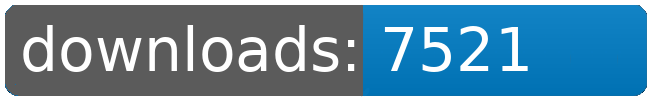
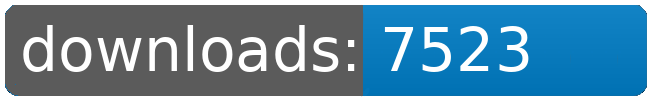
dl log written

Changed region(s): [[0.7692, 0.24, 0.8308, 0.72]]

diff --git a/README.md b/README.md
@@ -4,113 +4,113 @@
 <table>
 	<tr>
 		<td></td>
-		<td>2026-07-19</td>
 		<td>2026-07-20</td>
 		<td>2026-07-21</td>
 		<td>2026-07-22</td>
 		<td>2026-07-23</td>
 		<td>2026-07-24</td>
 		<td>2026-07-25</td>
+		<td>2026-07-26</td>
 		<td>today +</td>
 	</tr>
 	<tr>
 		<td>Bunsen.Burner</td>
-		<td>7654</td>
 		<td>7667</td>
 		<td>7681</td>
 		<td>7695</td>
 		<td>7709</td>
 		<td>7723</td>
 		<td>7738</td>
-		<td>+ 15</td>
+		<td>7738</td>
+		<td></td>
 	</tr>
 	<tr>
 		<td>Factory.Outlets</td>
-		<td>6735</td>
 		<td>6748</td>
 		<td>6763</td>
 		<td>6777</td>
 		<td>6794</td>
 		<td>6809</td>
 		<td>6824</td>
-		<td>+ 15</td>
+		<td>6824</td>
+		<td></td>
 	</tr>
 	<tr>
 		<td>Fundamental.Outfit.Expansion</td>
-		<td>8033</td>
 		<td>8047</td>
 		<td>8063</td>
 		<td>8076</td>
 		<td>8094</td>
 		<td>8110</td>
 		<td>8128</td>
-		<td>+ 18</td>
+		<td>8128</td>
+		<td></td>
 	</tr>
 	<tr>
 		<td>Jaws</td>
-		<td>6569</td>
 		<td>6583</td>
 		<td>6597</td>
 		<td>6613</td>
 		<td>6627</td>
 		<td>6641</td>
 		<td>6656</td>
-		<td>+ 15</td>
+		<td>6656</td>
+		<td></td>
 	</tr>
 	<tr>
 		<td>Korunak.Defense.Drones</td>
-		<td>6791</td>
 		<td>6804</td>
 		<td>6818</td>
 		<td>6833</td>
 		<td>6847</td>
 		<td>6861</td>
 		<td>6876</td>
-		<td>+ 15</td>
+		<td>6876</td>
+		<td></td>
 	</tr>
 	<tr>
 		<td>Louise.Conglomerate.Shipyards</td>
-		<td>7430</td>
 		<td>7446</td>
 		<td>7460</td>
 		<td>7474</td>
 		<td>7490</td>
 		<td>7506</td>
 		<td>7521</td>
-		<td>+ 15</td>
+		<td>7523</td>
+		<td>+ 2</td>
 	</tr>
 	<tr>
 		<td>Sheragi.Rebirth.Redux</td>
-		<td>61</td>
 		<td>62</td>
 		<td>63</td>
 		<td>63</td>
 		<td>64</td>
 		<td>65</td>
 		<td>65</td>
+		<td>65</td>
 		<td></td>
 	</tr>
 	<tr>
 		<td>Solar.Sails</td>
-		<td>6696</td>
 		<td>6709</td>
 		<td>6724</td>
 		<td>6738</td>
 		<td>6752</td>
 		<td>6766</td>
 		<td>6781</td>
-		<td>+ 15</td>
+		<td>6781</td>
+		<td></td>
 	</tr>
 	<tr>
 		<td>Zone.of.Control</td>
-		<td>6517</td>
 		<td>6531</td>
 		<td>6545</td>
 		<td>6559</td>
 		<td>6573</td>
 		<td>6586</td>
 		<td>6601</td>
-		<td>+ 15</td>
+		<td>6601</td>
+		<td></td>
 	</tr>
 	<tr>
 		<td></td>
@@ -120,8 +120,8 @@
 		<td></td>
 		<td></td>
 		<td></td>
-		<td>57190</td>
-		<td>123</td>
+		<td>57192</td>
+		<td>2</td>
 	</tr>
 </table>
 </sub></sup>
@@ -129,112 +129,112 @@
 <table>
 	<tr>
 		<td></td>
-		<td>2026-07-19</td>
 		<td>2026-07-20</td>
 		<td>2026-07-21</td>
 		<td>2026-07-22</td>
 		<td>2026-07-23</td>
 		<td>2026-07-24</td>
 		<td>2026-07-25</td>
+		<td>2026-07-26</td>
 		<td>today +</td>
 	</tr>
 	<tr>
 		<td>Fundamental.Outfit.Expansion</td>
-		<td>8033</td>
 		<td>8047</td>
 		<td>8063</td>
 		<td>8076</td>
 		<td>8094</td>
 		<td>8110</td>
 		<td>8128</td>
-		<td>+ 18</td>
+		<td>8128</td>
+		<td></td>
 	</tr>
 	<tr>
 		<td>Bunsen.Burner</td>
-		<td>7654</td>
 		<td>7667</td>
 		<td>7681</td>
 		<td>7695</td>
 		<td>7709</td>
 		<td>7723</td>
 		<td>7738</td>
-		<td>+ 15</td>
+		<td>7738</td>
+		<td></td>
 	</tr>
 	<tr>
 		<td>Louise.Conglomerate.Shipyards</td>
-		<td>7430</td>
 		<td>7446</td>
 		<td>7460</td>
 		<td>7474</td>
 		<td>7490</td>
 		<td>7506</td>
 		<td>7521</td>
-		<td>+ 15</td>
+		<td>7523</td>
+		<td>+ 2</td>
 	</tr>
 	<tr>
 		<td>Korunak.Defense.Drones</td>
-		<td>6791</td>
 		<td>6804</td>
 		<td>6818</td>
 		<td>6833</td>
 		<td>6847</td>
 		<td>6861</td>
 		<td>6876</td>
-		<td>+ 15</td>
+		<td>6876</td>
+		<td></td>
 	</tr>
 	<tr>
 		<td>Factory.Outlets</td>
-		<td>6735</td>
 		<td>6748</td>
 		<td>6763</td>
 		<td>6777</td>
 		<td>6794</td>
 		<td>6809</td>
 		<td>6824</td>
-		<td>+ 15</td>
+		<td>6824</td>
+		<td></td>
 	</tr>
 	<tr>
 		<td>Solar.Sails</td>
-		<td>6696</td>
 		<td>6709</td>
 		<td>6724</td>
 		<td>6738</td>
 		<td>6752</td>
 		<td>6766</td>
 		<td>6781</td>
-		<td>+ 15</td>
+		<td>6781</td>
+		<td></td>
 	</tr>
 	<tr>
 		<td>Jaws</td>
-		<td>6569</td>
 		<td>6583</td>
 		<td>6597</td>
 		<td>6613</td>
 		<td>6627</td>
 		<td>6641</td>
 		<td>6656</td>
-		<td>+ 15</td>
+		<td>6656</td>
+		<td></td>
 	</tr>
 	<tr>
 		<td>Zone.of.Control</td>
-		<td>6517</td>
 		<td>6531</td>
 		<td>6545</td>
 		<td>6559</td>
 		<td>6573</td>
 		<td>6586</td>
 		<td>6601</td>
-		<td>+ 15</td>
+		<td>6601</td>
+		<td></td>
 	</tr>
 	<tr>
 		<td>Sheragi.Rebirth.Redux</td>
-		<td>61</td>
 		<td>62</td>
 		<td>63</td>
 		<td>63</td>
 		<td>64</td>
 		<td>65</td>
 		<td>65</td>
+		<td>65</td>
 		<td></td>
 	</tr>
 	<tr>
@@ -245,8 +245,8 @@
 		<td></td>
 		<td></td>
 		<td></td>
-		<td>57190</td>
-		<td>123</td>
+		<td>57192</td>
+		<td>2</td>
 	</tr>
 </table>
 </sub></sup>
@@ -313,9 +313,9 @@
 		<td></td>
 	</tr>
 	<tr>
-		<td>285</td>
-		<td>21.71</td>
-		<td>6.63</td>
+		<td>286</td>
+		<td>21.64</td>
+		<td>6.60</td>
 		<td></td>
 		<td></td>
 	</tr>
